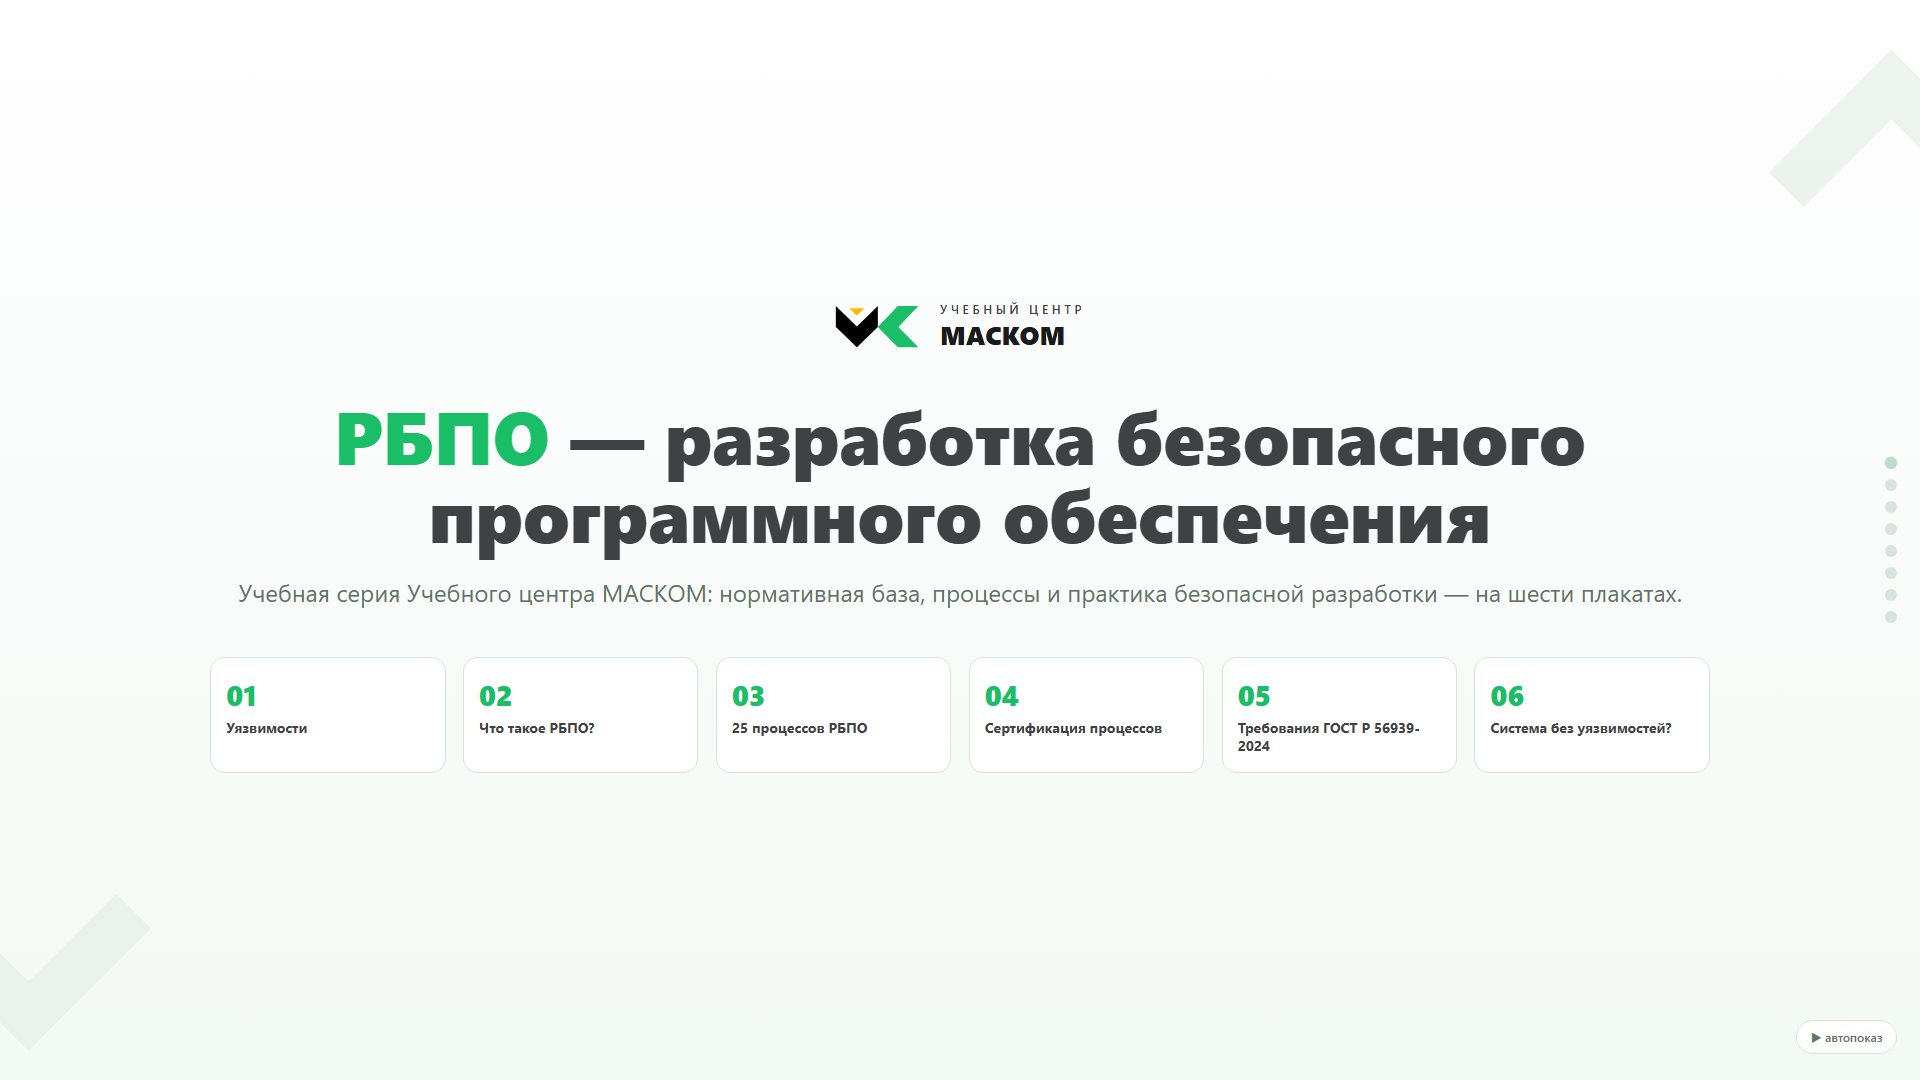
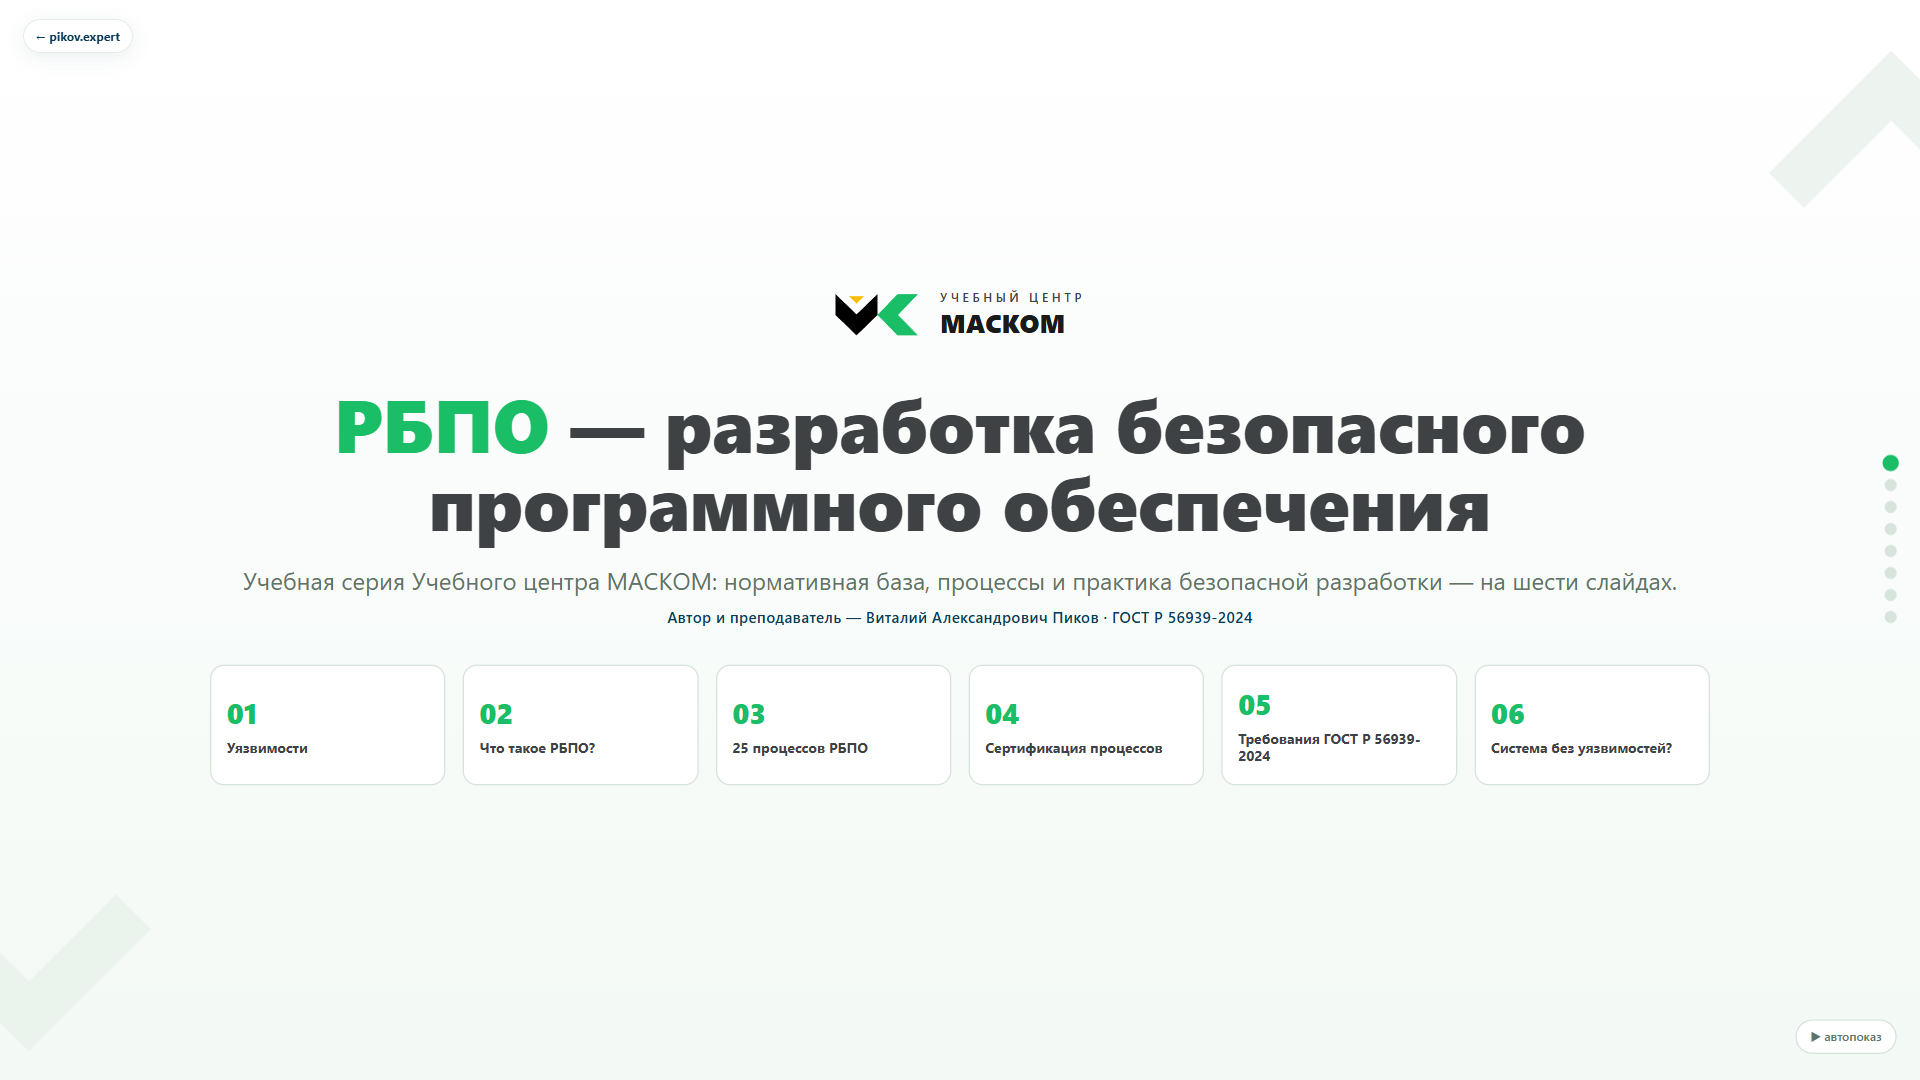
Use slide terminology for GOST lecture

diff --git a/gost56939/index.html b/gost56939/index.html
@@ -14,7 +14,7 @@
 <meta property="og:locale" content="ru_RU">
 <meta property="og:site_name" content="pikov.expert">
 <meta property="og:title" content="ГОСТ Р 56939-2024: разработка безопасного программного обеспечения">
-<meta property="og:description" content="Шесть учебных плакатов: уязвимости, понятие РБПО, 25 процессов, сертификация и требования ГОСТ Р 56939-2024.">
+<meta property="og:description" content="Шесть учебных слайдов: уязвимости, понятие РБПО, 25 процессов, сертификация и требования ГОСТ Р 56939-2024.">
 <meta property="og:url" content="https://gost56939.pikov.expert/">
 <meta property="og:image" content="https://gost56939.pikov.expert/og-image.png">
 <meta property="og:image:width" content="1920">
@@ -68,7 +68,7 @@
 <!-- ============================================================
      УЦ МАСКОМ · Серия «РБПО» · Лэндинг (этап 3)
      Один самодостаточный файл: без внешних библиотек; счётчик загружается только при публикации.
-     Каждый экран = проект одного плаката серии; текст живой (выделяется/копируется).
+     Каждый экран = один слайд серии; текст живой (выделяется/копируется).
      Киоск-режим: ?autoplay=1 (экран ~11 с, цикл). Служебное: ?screen=N (для скриншотов).
      ============================================================ -->
 <style>
@@ -315,7 +315,7 @@
   #s7 .sources a{color:var(--petrol);text-underline-offset:3px}
   #s7 .sources a:hover{color:var(--green)}
 
-  /* На узких и низких экранах плакаты становятся читаемым длинным документом. */
+  /* На узких и низких экранах слайды становятся читаемым длинным документом. */
   @media (max-width:1180px), (max-height:760px){
     html{scroll-snap-type:none}
     section.screen{height:auto;min-height:100svh;overflow:visible;scroll-snap-align:none;
@@ -415,7 +415,7 @@
   </div>
   <h1 class="rv d1"><span class="acc">РБПО</span> — разработка безопасного<br>программного обеспечения</h1>
   <p class="sub rv d2">Учебная серия Учебного центра МАСКОМ: нормативная база, процессы
-    и практика безопасной разработки — на шести плакатах.</p>
+    и практика безопасной разработки — на шести слайдах.</p>
   <p class="byline rv d2">Автор и преподаватель — Виталий Александрович Пиков · ГОСТ Р 56939-2024</p>
   <div class="minis rv d3">
     <button class="mini" type="button" data-go="1"><div class="n">01</div><div class="t">Уязвимости</div></button>
@@ -430,7 +430,7 @@
 <!-- ================== 01 · УЯЗВИМОСТИ ================== -->
 <section class="screen" id="s1" data-t="01 · Уязвимости">
   <div class="wm br"></div>
-  <div class="kicker rv">Плакат 01 · Серия РБПО</div>
+  <div class="kicker rv">Слайд 01 · Серия РБПО</div>
   <h2 class="title rv"><span class="acc">Уязвимости</span></h2>
   <div class="cols rv d1">
     <div><!-- Колонка 1: определения -->
@@ -549,7 +549,7 @@
 <!-- ================== 02 · ЧТО ТАКОЕ РБПО ================== -->
 <section class="screen" id="s2" data-t="02 · Что такое РБПО?">
   <div class="wm tr"></div><div class="wm bl"></div>
-  <div class="kicker rv">Плакат 02 · Серия РБПО</div>
+  <div class="kicker rv">Слайд 02 · Серия РБПО</div>
   <div style="text-align:center">
     <div class="hero rv">РБПО</div>
     <div class="dec rv d1">РАЗРАБОТКА БЕЗОПАСНОГО ПРОГРАММНОГО ОБЕСПЕЧЕНИЯ</div>
@@ -585,7 +585,7 @@
 
 <!-- ================== 03 · 25 ПРОЦЕССОВ ================== -->
 <section class="screen" id="s3" data-t="03 · 25 процессов">
-  <div class="kicker rv">Плакат 03 · Серия РБПО</div>
+  <div class="kicker rv">Слайд 03 · Серия РБПО</div>
   <div class="top rv">
     <div class="n25">25</div>
     <div class="facts">
@@ -595,7 +595,7 @@
   </div>
   <div class="plist rv d1" id="plist3"></div>
   <div class="legend rv d2" style="margin-top:.8vh">
-    <span><b>АВТОРСКАЯ УЧЕБНАЯ СХЕМА.</b> ГОСТ Р 56939-2024 не классифицирует процессы как «сквозные» и «проектные» и не устанавливает показанные стрелками связи с анализом и трансформацией программ. Названия процессов сокращены для плаката: ПО — программное обеспечение, РБПО — разработка безопасного программного обеспечения.</span>
+    <span><b>АВТОРСКАЯ УЧЕБНАЯ СХЕМА.</b> ГОСТ Р 56939-2024 не классифицирует процессы как «сквозные» и «проектные» и не устанавливает показанные стрелками связи с анализом и трансформацией программ. Названия процессов сокращены для слайда: ПО — программное обеспечение, РБПО — разработка безопасного программного обеспечения.</span>
   </div>
   <div class="legend rv d2">
     <span><span class="sq"></span>выделенные процессы — 13</span>
@@ -607,7 +607,7 @@
 <!-- ================== 04 · СЕРТИФИКАЦИЯ ================== -->
 <section class="screen" id="s4" data-t="04 · Сертификация">
   <div class="wm br"></div>
-  <div class="kicker rv">Плакат 04 · Серия РБПО</div>
+  <div class="kicker rv">Слайд 04 · Серия РБПО</div>
   <h2 class="title rv">Сертификация процессов безопасной разработки <span class="acc">ПО средств защиты информации</span></h2>
   <div class="wrap rv d1">
     <div class="doc">
@@ -656,7 +656,7 @@
 
 <!-- ================== 05 · ТРЕБОВАНИЯ ГОСТ ================== -->
 <section class="screen" id="s5" data-t="05 · Требования ГОСТ">
-  <div class="kicker rv">Плакат 05 · Серия РБПО</div>
+  <div class="kicker rv">Слайд 05 · Серия РБПО</div>
   <h2 class="title rv">Требования <span class="acc">ГОСТ Р 56939-2024</span></h2>
   <p class="lead rv" style="margin-bottom:1vh">Национальный стандарт «Защита информации.
     Разработка безопасного программного обеспечения. Общие требования»</p>
@@ -695,7 +695,7 @@
 <!-- ================== 06 · СИСТЕМА БЕЗ УЯЗВИМОСТЕЙ ================== -->
 <section class="screen" id="s6" data-t="06 · Без уязвимостей?">
   <div class="wm tr"></div>
-  <div class="kicker rv">Плакат 06 · Серия РБПО</div>
+  <div class="kicker rv">Слайд 06 · Серия РБПО</div>
   <h2 class="title rv">Можно ли сделать систему <span class="acc">без уязвимостей?</span></h2>
   <div class="klabel rv">ТРИ АКСИОМЫ, ПРИПИСЫВАЕМЫЕ М.&nbsp;Р.&nbsp;ШУРЕ-БУРЕ</div>
   <div class="ax rv d1">
@@ -783,7 +783,7 @@
     "Безопасная поставка ПО пользователям","Обеспечение поддержки ПО при эксплуатации пользователями",
     "Реагирование на информацию об уязвимостях","Поиск уязвимостей в ПО при эксплуатации",
     "Обеспечение безопасности при выводе ПО из эксплуатации"];
-  /* Перечни плакатов 03 и 05 унифицированы (раздел 8 заключения экспертизы):
+  /* Перечни слайдов 03 и 05 унифицированы (раздел 8 заключения экспертизы):
      одинаковые сокращения «ПО» на обоих экранах, нумерация 5.1-5.25. */
   var P05 = P03;
 

diff --git a/index.html b/index.html
@@ -1127,7 +1127,7 @@
         <a class="card" href="https://gost56939.pikov.expert" target="_blank" rel="noopener">
           <span class="card-tag">МАСКОМ</span>
           <h3>РБПО — разработка безопасного программного обеспечения</h3>
-          <p>Учебная серия из шести плакатов: уязвимости и РБПО, 25 процессов безопасной разработки ПО, требования ГОСТ Р 56939-2024, сертификация процессов по Порядку ФСТЭК России № 240 и практическое внедрение.</p>
+          <p>Учебная серия из шести слайдов: уязвимости и РБПО, 25 процессов безопасной разработки ПО, требования ГОСТ Р 56939-2024, сертификация процессов по Порядку ФСТЭК России № 240 и практическое внедрение.</p>
           <div class="card-footer">
             <span>gost56939.pikov.expert</span>
             <span class="card-link">Открыть <svg viewBox="0 0 24 24" fill="none" stroke="currentColor" stroke-width="2.5" stroke-linecap="round"><path d="M5 12h14M13 5l7 7-7 7"/></svg></span>
